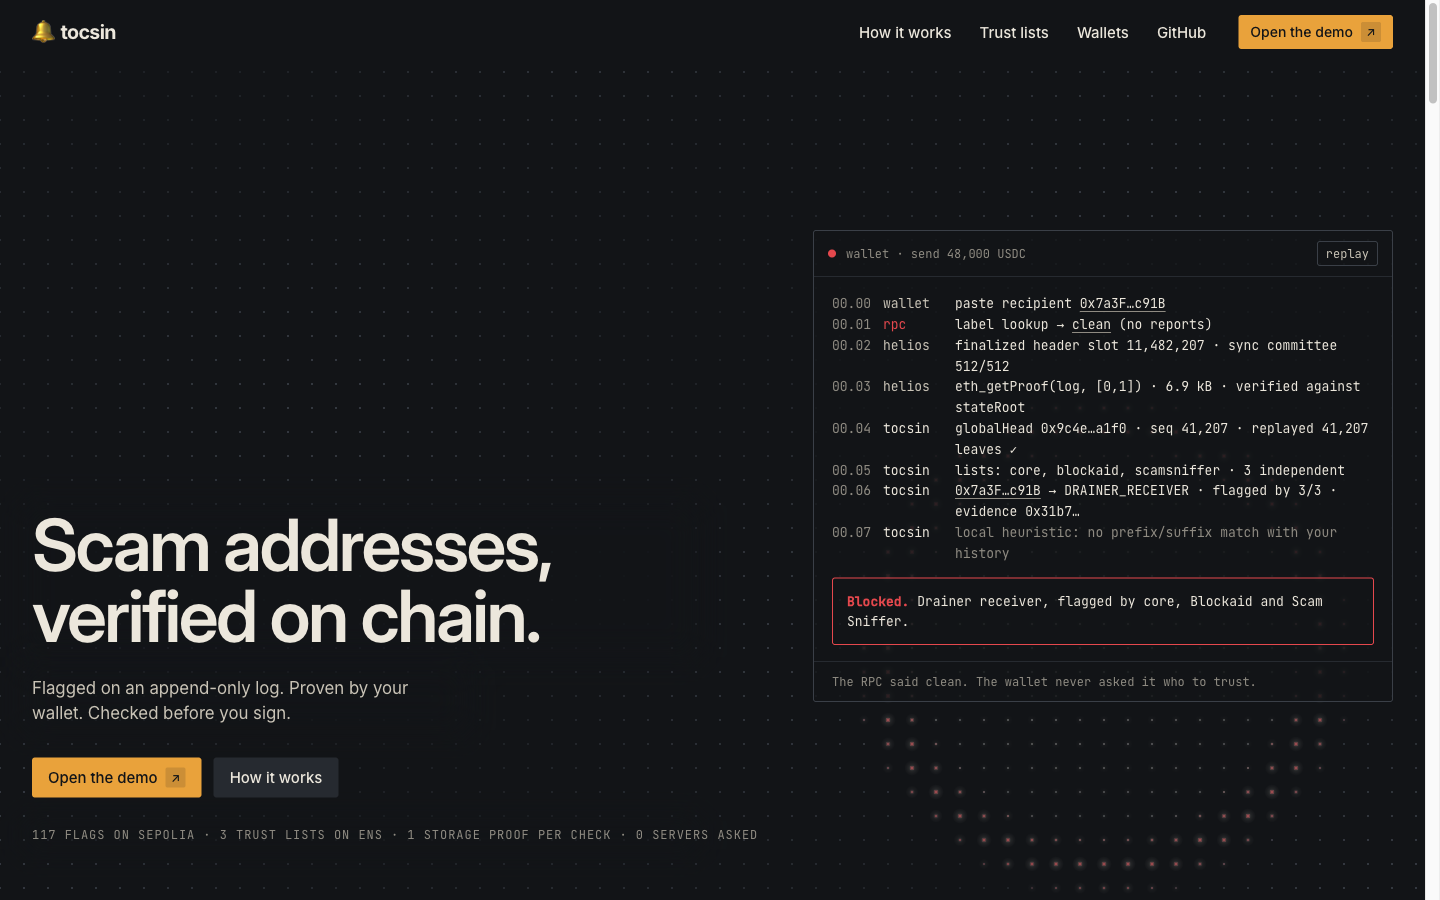
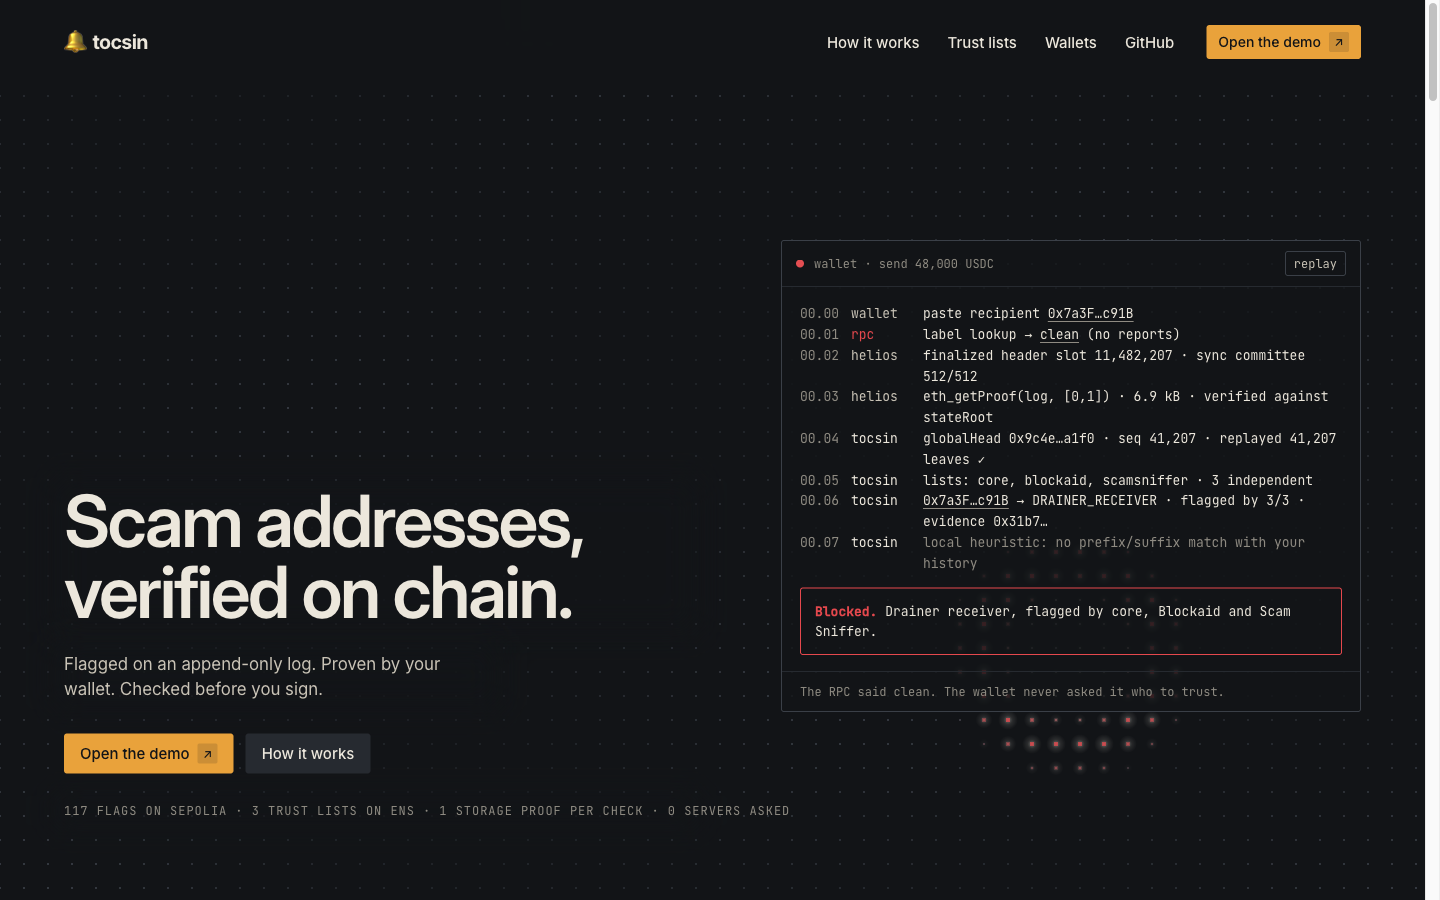
site: wider gutters and taller nav on the landing

diff --git a/site/style.css b/site/style.css
@@ -2,7 +2,7 @@
 
 /* Landing grammar: full-bleed with a 32px edge, one hairline above each section, a mono eyebrow with the
    section number, left-aligned headlines, long vertical breathing room, the ring field behind everything. */
-:root { --edge: 32px; --cap: 1680px; --nav: 64px; --sec: 150px; }
+:root { --edge: 64px; --cap: 1680px; --nav: 84px; --sec: 160px; }
 * { box-sizing: border-box; }
 body { background: var(--ink-900); min-height: 100vh; overflow-x: hidden; }
 html { scroll-behavior: smooth; scroll-padding-top: var(--nav); }
@@ -41,7 +41,7 @@ a.more:hover { color: var(--paper-200); }
 .nav .btn { height: 34px; padding: 0 12px; font-size: 14px; }
 
 /* hero: one viewport, headline bottom-left, the trace floating on the field to the right */
-.hero { min-height: 100vh; display: grid; grid-template-columns: minmax(0, 1fr) minmax(0, 1fr); gap: 48px; margin-top: calc(var(--nav) * -1); padding: var(--nav) var(--edge) 56px; }
+.hero { min-height: 100vh; display: grid; grid-template-columns: minmax(0, 1fr) minmax(0, 1fr); gap: 48px; margin-top: calc(var(--nav) * -1); padding: calc(var(--nav) + 24px) var(--edge) 80px; }
 .hero .left { display: flex; flex-direction: column; justify-content: flex-end; max-width: 720px; }
 .hero h1 { margin: 0 0 24px; }
 .hero .tag { font-size: 17px; line-height: 1.5; color: var(--paper-200); max-width: 40ch; margin: 0 0 32px; }
@@ -127,7 +127,7 @@ a.more:hover { color: var(--paper-200); }
 .rows .r p { color: var(--paper-200); font-size: 15px; line-height: 1.55; margin: 0; }
 #faq .sec-head { margin-bottom: 48px; }
 
-footer { border-top: var(--hair); padding: 40px var(--edge) 48px; color: var(--paper-200); font-size: 13px; }
+footer { border-top: var(--hair); padding: 56px var(--edge) 64px; color: var(--paper-200); font-size: 13px; }
 .foot-row { display: flex; align-items: center; justify-content: space-between; gap: 16px 32px; flex-wrap: wrap; }
 .foot-row .wordmark { display: flex; align-items: center; gap: 8px; font-size: 20px; color: var(--paper-100); }
 .foot-links { display: flex; gap: 24px; flex-wrap: wrap; font-size: 14px; font-weight: 500; color: var(--paper-100); }
